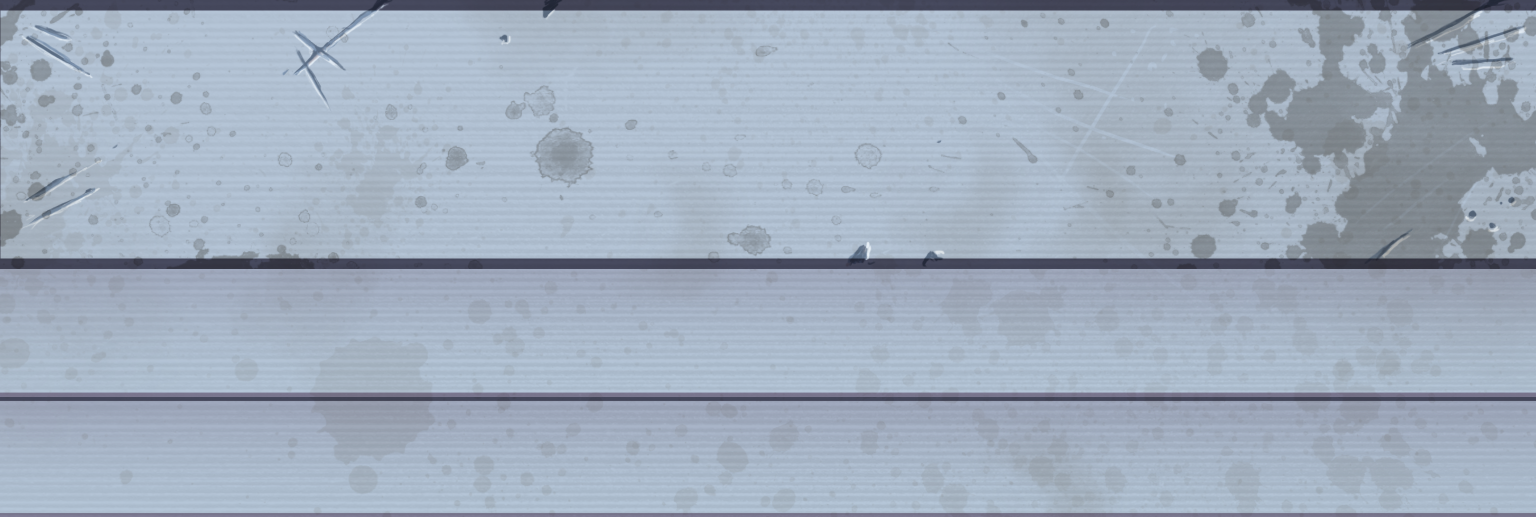
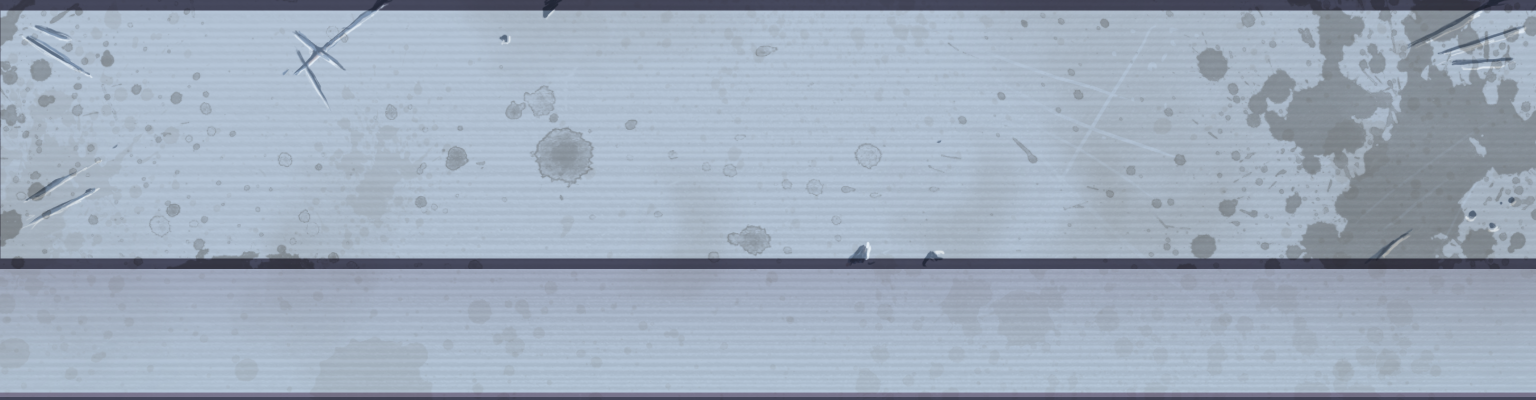
Removes tab bar

diff --git a/lib/main.dart b/lib/main.dart
@@ -270,16 +270,8 @@ class MainScene extends StatefulComponent {
 
 class MainSceneState extends State<MainScene> {
 
-  TabBarSelection _tabSelection;
-
   void initState() {
     super.initState();
-
-    _tabSelection = new TabBarSelection(
-      index: 0,
-      maxIndex: 2,
-      onChanged: _handleSelectionChange
-    );
   }
 
   Widget build(BuildContext context) {
@@ -292,19 +284,13 @@ class MainSceneState extends State<MainScene> {
           new Column(<Widget>[
             new SizedBox(
               width: 320.0,
-              height: 108.0,
+              height: 98.0,
               child: new TopBar(
-                onSelectTab: (int tab) {
-                  setState(() => _tabSelection.index = tab);
-                  _sounds.play('click');
-                },
-                selection: _tabSelection,
                 gameState: config.gameState
               )
             ),
             new Flexible(
               child: new CenterArea(
-                selection: _tabSelection,
                 onUpgradeLaser: config.onUpgradeLaser,
                 onUpgradePowerUp: config.onUpgradePowerUp,
                 gameState: config.gameState
@@ -326,10 +312,6 @@ class MainSceneState extends State<MainScene> {
         ])
       )
     );
-  }
-
-  void _handleSelectionChange() {
-    setState((){});
   }
 }
 
@@ -390,12 +372,9 @@ class TopBar extends StatelessComponent {
           style: scoreLabelStyle
         )
       ),
-      _buildTabButton("Upgrades", 0),
-      _buildTabButton("Friend Scores", 1),
-      _buildTabButton("World Scores", 2),
       new Positioned(
         left: 10.0,
-        top: 87.0,
+        top: 80.0,
         child: new TextureImage(
           texture: _spriteSheetUI['icn_crystal.png'],
           width: 12.0,
@@ -404,7 +383,7 @@ class TopBar extends StatelessComponent {
       ),
       new Positioned(
         left: 28.0,
-        top: 87.0,
+        top: 80.0,
         child: new Text(
           "${gameState.coins}",
           style: new TextStyle(
@@ -415,42 +394,6 @@ class TopBar extends StatelessComponent {
         )
       )
     ]);
-  }
-
-  Widget _buildTabButton(String title, int index) {
-    TextAlign textAlign = TextAlign.center;
-    if (index == 0) textAlign = TextAlign.left;
-    else if (index == 2) textAlign = TextAlign.right;
-
-    TextStyle textStyle = null;
-    if (index == selection.index) {
-      textStyle = new TextStyle(
-        fontWeight: FontWeight.w700,
-        textAlign: textAlign,
-        fontSize: 14.0,
-        color: _darkTextColor
-      );
-    } else {
-      textStyle = new TextStyle(
-        fontWeight: FontWeight.w400,
-        textAlign: textAlign,
-        fontSize: 14.0,
-        color: _darkTextColor
-      );
-    }
-
-    return new Positioned(
-      left: 10.0 + index * 100.0,
-      top: 56.0,
-      child: new TextureButton(
-        texture: null,
-        textStyle: textStyle,
-        label: title,
-        onPressed: () => onSelectTab(index),
-        width: 100.0,
-        height: 25.0
-      )
-    );
   }
 }
 
@@ -473,18 +416,7 @@ class CenterArea extends StatelessComponent {
   }
 
   Widget _buildCenterArea() {
-    return new TabBarView(
-      items: <int>[0, 1, 2],
-      selection: selection,
-      itemBuilder: (BuildContext context, int item, int index) {
-        if (item == 0)
-          return _buildUpgradePanel();
-        else if (item == 1)
-          return _buildFriendScorePanel();
-        else if (item == 2)
-          return _buildWorldScorePanel();
-      }
-    );
+    return _buildUpgradePanel();
   }
 
   Widget _buildUpgradePanel() {
@@ -503,14 +435,6 @@ class CenterArea extends StatelessComponent {
       justifyContent: FlexJustifyContent.center,
       key: new Key("upgradePanel")
     );
-  }
-
-  Widget _buildFriendScorePanel() {
-    return new ScorePanel(key: new Key("friendScorePanel"));
-  }
-
-  Widget _buildWorldScorePanel() {
-    return new ScorePanel(key: new Key("worldScorePanel"));
   }
 
   Widget _buildPowerUpButton(PowerUpType type) {
@@ -569,64 +493,6 @@ class CenterArea extends StatelessComponent {
           top: 14.0
         )
       ])
-    );
-  }
-}
-
-class ScorePanel extends StatelessComponent {
-  ScorePanel({
-    Key key
-  }) : super(key: key);
-
-  Widget build(BuildContext context) {
-    return new ScrollableList<int>(
-      items: <int>[0, 1, 2],
-      itemBuilder: _itemBuilder,
-      itemExtent: 64.0
-    );
-  }
-
-  Widget _itemBuilder(BuildContext context, int item, int index) {
-    return new Stack(
-      [
-        new Positioned(
-          left: 0.0,
-          top: 0.0,
-          child: new Container(
-            width: 320.0,
-            height: 63.0,
-            foregroundDecoration: new BoxDecoration(
-              backgroundColor: new Color(0x33000000)
-            )
-          )
-        ),
-        new Positioned(
-          left: 10.0,
-          top: 10.0,
-          child: new TextureImage(
-            texture: _spriteSheetUI['player_icon.png'],
-            width: 44.0,
-            height: 44.0
-          )
-        ),
-        new Positioned(
-          left: 70.0,
-          top: 12.0,
-          child: new Text(
-            "Player Name $index",
-            style: new TextStyle(fontSize: 18.0)
-          )
-        ),
-        new Positioned(
-          left: 70.0,
-          bottom: 12.0,
-          child: new Text(
-            "${(index + 1) * 25428}",
-            style: new TextStyle(fontSize: 16.0)
-          )
-        )
-      ],
-      key: new Key("$index")
     );
   }
 }
